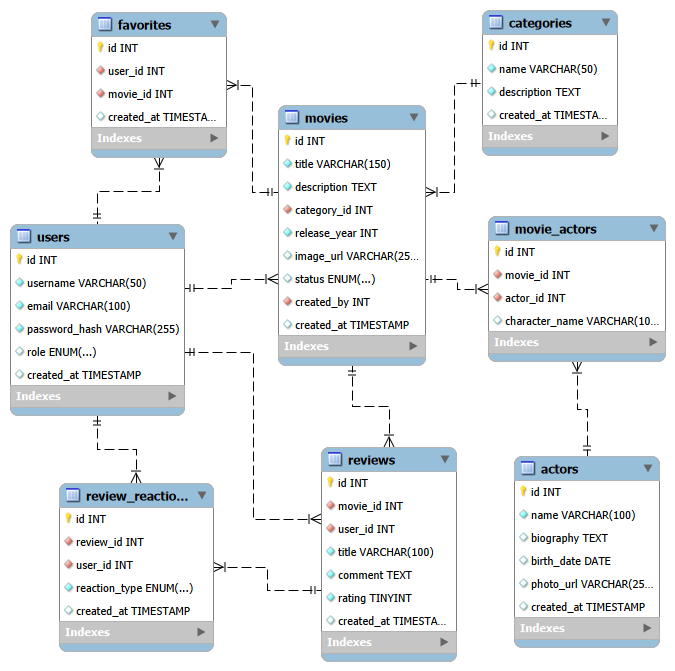
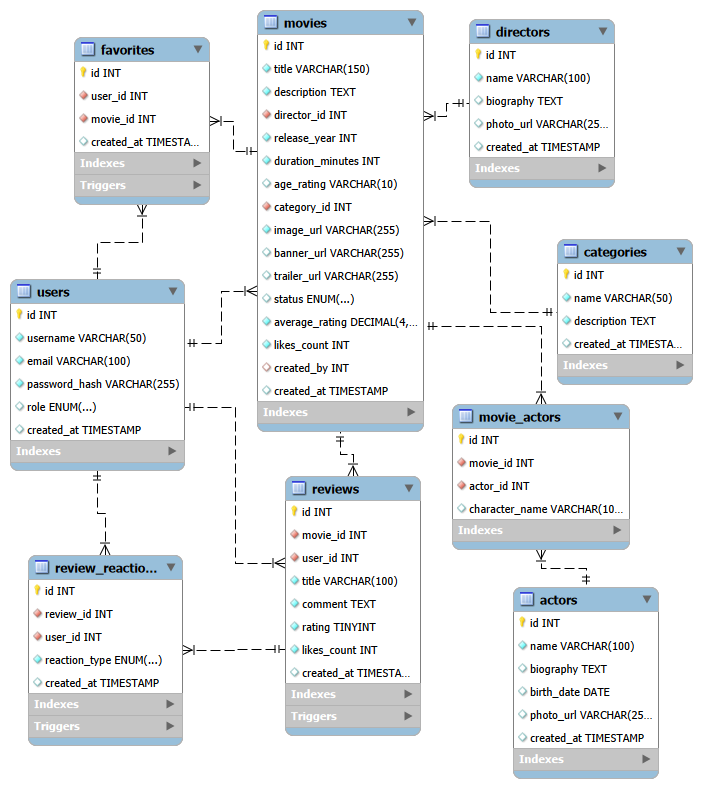
docs(documentation) actualization of the diagram ER, and complete the README documentation

diff --git a/README.md b/README.md
@@ -164,14 +164,6 @@ database/
 
 Las operaciones críticas de reseñas y reacciones se ejecutan dentro de transacciones InnoDB. Passport JWT vuelve a consultar el estado del usuario y verifica la versión del token, lo que permite revocar sesiones. Los errores HTTP se centralizan en un middleware.
 
-### Actualizar una base existente
-
-Respalda la base antes de aplicar una vez cada migración pertinente:
-
-- [`database/migrations/20261031_remove_director_metadata.sql`](./database/migrations/20261031_remove_director_metadata.sql)
-- [`database/migrations/20261101_make_movie_image_url_nullable.sql`](./database/migrations/20261101_make_movie_image_url_nullable.sql)
-
-`01-schema.sql` crea el esquema nuevo; no altera tablas que ya existen.
 
 ## Principios y consideraciones
 
@@ -188,23 +180,17 @@ Respalda la base antes de aplicar una vez cada migración pertinente:
 
 - Brandon Estiben Ixén Teleguario — Developer.
 - Anderson Oloroso García — Developer.
-- Scrum Master — **PENDIENTE: agregar nombre y asignación**.
-- Product Owner — **PENDIENTE: agregar nombre y asignación**.
+
 
 ### Seguimiento SCRUM
 
 Tablero del equipo en [Monday.com](https://ixenbrandonestibens-team-squad.monday.com/boards/18437954558).
 
-- Sprint 1 — **PENDIENTE: agregar fechas, objetivo e historias de usuario**.
-- Sprint 2 — **PENDIENTE: agregar fechas, objetivo e historias de usuario**.
-- Evidencias del tablero — **PENDIENTE: agregar enlaces o capturas**.
 
 ### Materiales de entrega
 
-- PDF de planeación SCRUM — **PENDIENTE: agregar el documento final y enlazarlo aquí**.
-- Video de demostración (máximo 10 minutos, integrantes en cámara, código y recorrido funcional) — **PENDIENTE: agregar el enlace final aquí**.
+- PDF de planeación SCRUM — [SCRUM.pdf](https://drive.google.com/drive/folders/1RAnTXVnz4HJQQlliIRE3cq6Hid5QzcgF?usp=drive_link).
 
-No se generaron el PDF ni el video. El frontend contiene `public/karenflix_intro.mp4`, pero no se ha validado como el video de entrega solicitado.
 
 ## Créditos
 
